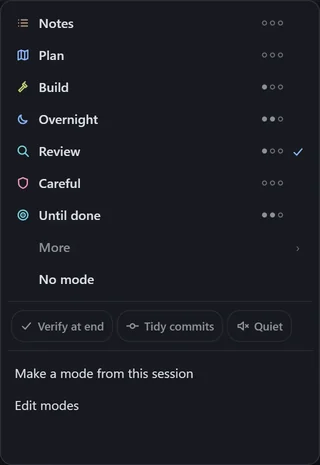
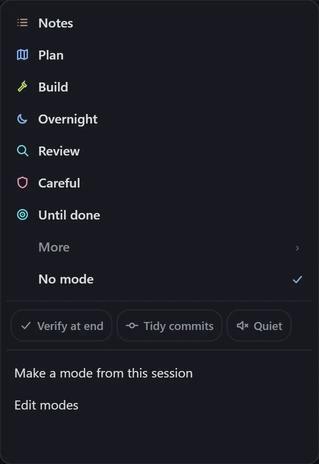
Site: screenshots and docs without the token dots

diff --git a/site/src/docs.html b/site/src/docs.html
@@ -155,7 +155,6 @@
       <li><strong>Add-ons</strong> stack on top of a mode: Verify at end, Tidy commits and Quiet.</li>
       <li><strong>Real limits:</strong> Plan and Review block file edits and commands that write. Careful blocks pushes, deploys and destructive commands. A hook stops the tool call itself, so it doesn't depend on Claude following the words.</li>
       <li><strong>Ending a mode:</strong> modes like Notes end when your whole message is one of their end words, such as "start" or "go". A word inside a sentence never counts, and the tile offers Undo.</li>
-      <li><strong>Cost:</strong> each mode shows 0 to 3 dots for how many tokens it tends to add. The instructions go to Claude once, with your next message, and again after a compaction.</li>
       <li><strong>Your own:</strong> edit, hide or add modes under Edit modes. <strong>Make a mode from this session</strong> asks the overseer to draft one from how you've been instructing a session. Modes save as <code>.hangar-mode.json</code> files you can share.</li>
       <li>You can set a default mode per project and per workspace. The tile menu also has one-click Review and Simplify, which run Claude Code's own <code>/code-review</code> and <code>/simplify</code>.</li>
     </ul>

diff --git a/site/src/index.html b/site/src/index.html
@@ -131,7 +131,7 @@ h.classList.add(plain?'plain':'fx');})();
 
   <section class="f f-modes">
     <figure class="shot" data-shot="/shots/modes-dark-tight.webp" data-r="12">
-      <img src="/shots/modes-dark-tight-1x.webp" srcset="/shots/modes-dark-tight-1x.webp 320w, /shots/modes-dark-tight.webp 640w" sizes="28vw" width="320" height="465" alt="The mode menu: Notes, Plan, Build, Overnight, Review (checked), Careful and Until done, each with token-cost dots, then the add-ons Verify at end, Tidy commits and Quiet." decoding="async" loading="lazy">
+      <img src="/shots/modes-dark-tight-1x.webp" srcset="/shots/modes-dark-tight-1x.webp 319w, /shots/modes-dark-tight.webp 638w" sizes="28vw" width="319" height="464" alt="The mode menu: Notes, Plan, Build, Overnight, Review, Careful and Until done, then the add-ons Verify at end, Tidy commits and Quiet." decoding="async" loading="lazy">
     </figure>
     <div class="tx">
       <h2 data-rise>Modes</h2>
